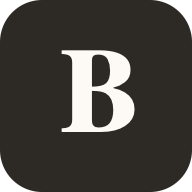
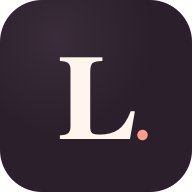
feat(brand): Bokist → Luca へリブランド
サイト名を「Luca」（ルカ）に変更。
由来：先輩のお名前「るか」+ 複式簿記の父 Luca Pacioli (1494)。

変更:
- index.html: title / apple-mobile-web-app-title を Luca に
- vite.config.ts: PWA manifest name / short_name / theme_color (#fff5ec) を更新
- ArticlesScreen brand-wordmark: "Bokist." → "Luca."
- public/favicon.svg: B → イタリック L (Marcellus 風)、bg を Sunlit Glass の ink #2a1f2a に
- public/pwa-{192,512,maskable-512}.png: 再生成（イタリックL + ピーチアクセントドット）
- SettingsScreen フッター追加: "Luca. Made for Ruka · 2026"（プレゼント感）

importExport.ts の app: 'bokist' は backward compat のため keep（過去エクスポートデータと互換維持）。
GitHub リポ名 tekarimeron11/bokist と base path /bokist/ もそのまま（URL 変更コスト回避）。

Changed region(s): [[0.3125, 0.25, 0.7812, 0.75]]

diff --git a/vite.config.ts b/vite.config.ts
@@ -10,11 +10,11 @@ export default defineConfig({
       registerType: 'autoUpdate',
       includeAssets: ['favicon.svg', 'apple-touch-icon.png'],
       manifest: {
-        name: 'Bokist — 簿記3級学習',
-        short_name: 'Bokist',
+        name: 'Luca — 簿記3級学習',
+        short_name: 'Luca',
         description: '日商簿記3級の仕訳トレーニング',
-        theme_color: '#fdfaf6',
-        background_color: '#fdfaf6',
+        theme_color: '#fff5ec',
+        background_color: '#fff5ec',
         display: 'standalone',
         orientation: 'portrait',
         scope: '/bokist/',

diff --git a/index.html b/index.html
@@ -8,8 +8,8 @@
     <meta name="apple-mobile-web-app-capable" content="yes" />
     <meta name="mobile-web-app-capable" content="yes" />
     <meta name="apple-mobile-web-app-status-bar-style" content="default" />
-    <meta name="apple-mobile-web-app-title" content="Bokist" />
-    <title>Bokist — 簿記3級学習</title>
+    <meta name="apple-mobile-web-app-title" content="Luca" />
+    <title>Luca — 簿記3級学習</title>
   </head>
   <body>
     <div id="root"></div>

diff --git a/src/screens/SettingsScreen.tsx b/src/screens/SettingsScreen.tsx
@@ -101,6 +101,11 @@ export function SettingsScreen({ onBack }: Props) {
           <div className="mt-4 text-[12px] text-ink-soft font-serif italic">{message}</div>
         )}
       </section>
+
+      <footer className="mt-12 text-center text-[10px] text-ink-faint tracking-[0.18em] uppercase">
+        <span className="font-serif italic text-coral mr-1.5">Luca.</span>
+        Made for Ruka · 2026
+      </footer>
       </div>
     </div>
   )

diff --git a/src/screens/ArticlesScreen.tsx b/src/screens/ArticlesScreen.tsx
@@ -64,7 +64,7 @@ export function ArticlesScreen({ onOpenArticle, onOpenSettings }: Props) {
     <div className="min-h-screen pb-32">
       {/* Top bar */}
       <header className="px-6 pt-6 flex items-center justify-between">
-        <div className="brand-wordmark text-[22px]">Bokist.</div>
+        <div className="brand-wordmark text-[22px]">Luca.</div>
         <button
           onClick={onOpenSettings}
           aria-label="設定"
